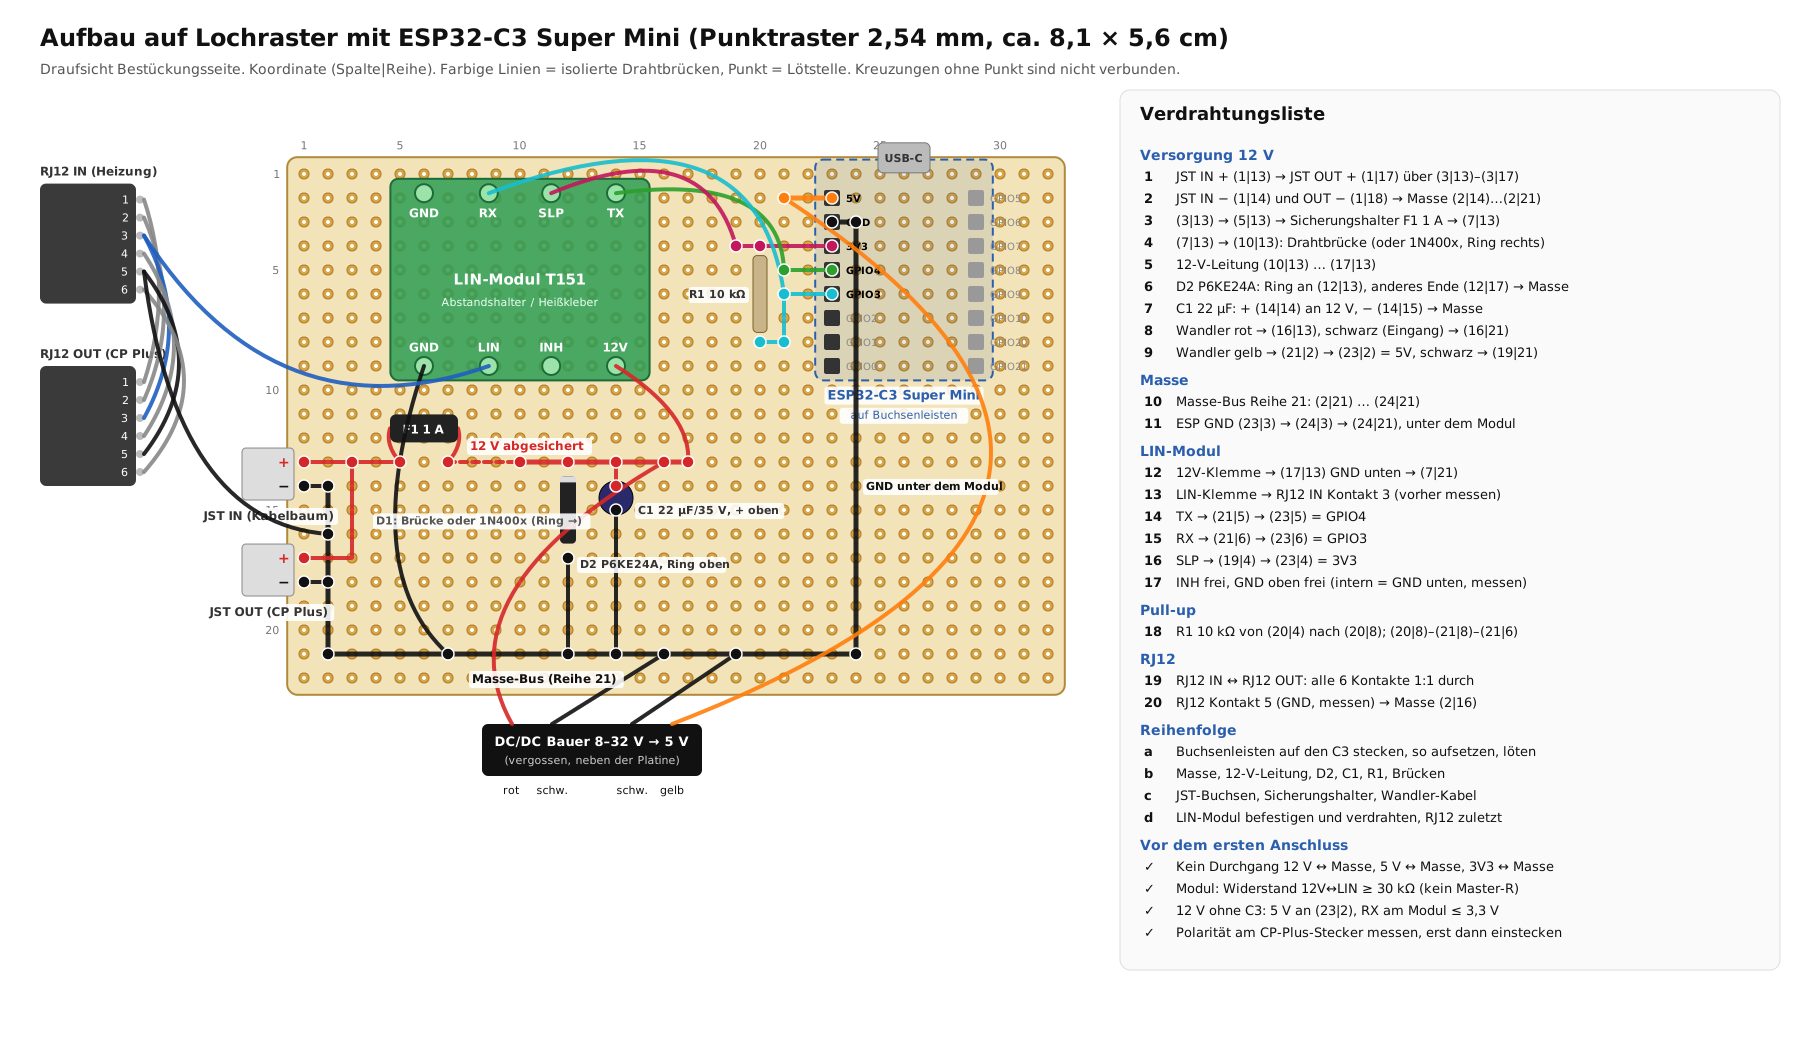
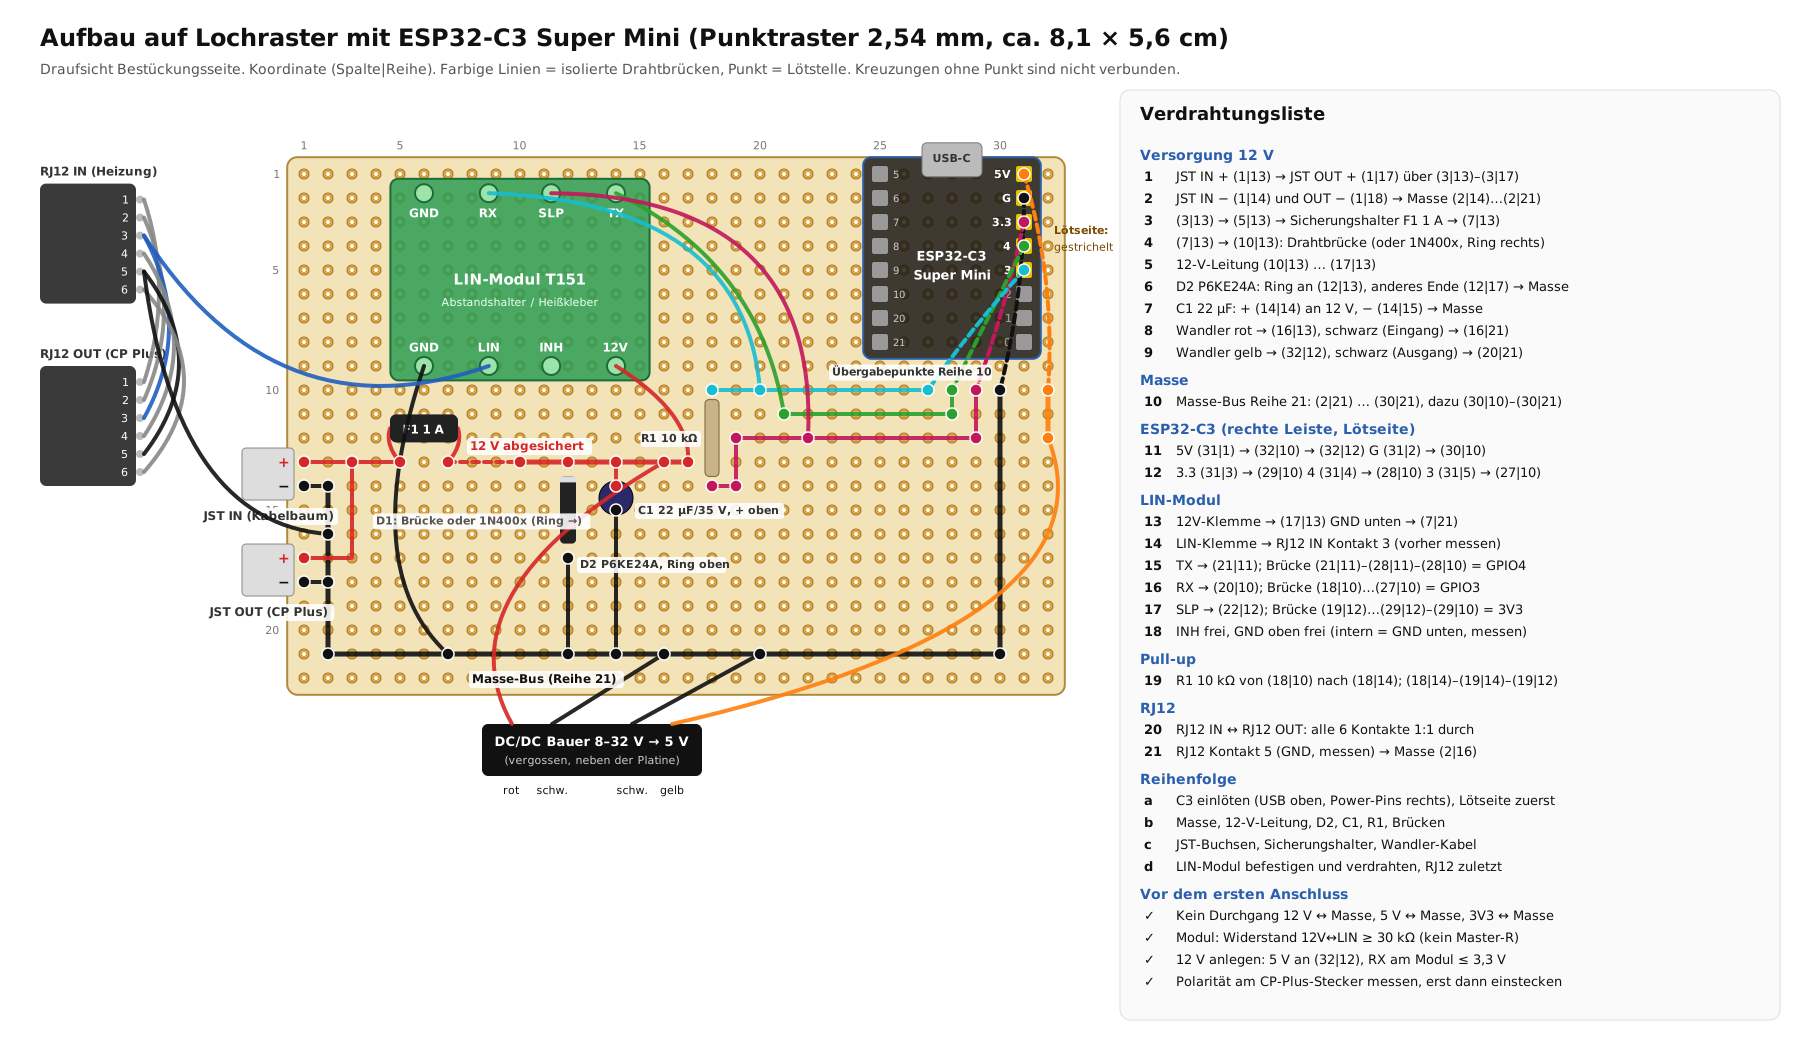
C3 Super Mini plan: power pins on the right in top view
The Super Mini has 5V/G/3.3/4/3/2/1/0 on the right header when seen from
the top with USB up. Layout mirrored accordingly, the five used pins are
wired on the solder side to transfer points below the module.

Claude-Session: https://claude.ai/code/session_01V8JBHwqyDuTDRa74HcRfnB

Changed region(s): [[0.6154, 0.3736, 0.8615, 0.934], [0.2769, 0.1245, 0.6154, 0.6849], [0.7077, 0.3113, 0.8308, 0.3425]]

diff --git a/docs/gen_layout_c3.py b/docs/gen_layout_c3.py
@@ -8,7 +8,7 @@ P = 24                 # pixel per 2.54 mm
 X0, Y0 = 280, 150      # origin: hole (0,0)
 COLS, ROWS = 32, 22
 W, H = 1820, 1060
-LIST_X, LIST_H = 1140, 880
+LIST_X, LIST_H = 1140, 930
 s = []
 a = s.append
 
@@ -81,27 +81,27 @@ for y in range(1, ROWS + 1):
     if y == 1 or y % 5 == 0:
         txt(hx(0.3) - 8, hy(y) + 4, str(y), 11, 'end', '#777')
 
-# ---------------- ESP32-C3 Super Mini (USB up) ----------------
-LX_, RX_, Y1 = 23, 29, 2
-left = ['5V', 'GND', '3V3', 'GPIO4', 'GPIO3', 'GPIO2', 'GPIO1', 'GPIO0']
-right = ['GPIO5', 'GPIO6', 'GPIO7', 'GPIO8', 'GPIO9', 'GPIO10', 'GPIO20', 'GPIO21']
-a(f'<rect x="{hx(LX_-0.7)}" y="{hy(Y1-1.6)}" width="{(RX_-LX_+1.4)*P}" height="{9.2*P}" rx="8" '
-  'fill="#2b5fae" fill-opacity="0.12" stroke="#2b5fae" stroke-width="2" stroke-dasharray="8,5"/>')
-a(f'<rect x="{(hx(LX_)+hx(RX_))/2-26}" y="{hy(Y1-2.3)}" width="52" height="30" rx="5" fill="#bbb" stroke="#777"/>')
-txt((hx(LX_) + hx(RX_)) / 2, hy(Y1 - 1.5), 'USB-C', 11, 'middle', '#333', True)
-tbg((hx(LX_) + hx(RX_)) / 2, hy(Y1 + 8.4), 'ESP32-C3 Super Mini', 13, 'middle', '#2b5fae', True)
-tbg((hx(LX_) + hx(RX_)) / 2, hy(Y1 + 9.2), 'auf Buchsenleisten', 11, 'middle', '#2b5fae', False)
+# ---------------- ESP32-C3 Super Mini (top view, USB up: power pins on the RIGHT) ----------------
+LX_, RX_, Y1 = 25, 31, 1
+left = ['GPIO5', 'GPIO6', 'GPIO7', 'GPIO8', 'GPIO9', 'GPIO10', 'GPIO20', 'GPIO21']
+right = ['5V', 'G', '3.3', '4', '3', '2', '1', '0']
+USED = ('5V', 'G', '3.3', '4', '3')
+a(f'<rect x="{hx(LX_-0.7)}" y="{hy(Y1-0.7)}" width="{(RX_-LX_+1.4)*P}" height="{8.4*P}" rx="8" '
+  'fill="#111" fill-opacity="0.80" stroke="#2b5fae" stroke-width="2"/>')
+a(f'<rect x="{(hx(LX_)+hx(RX_))/2-30}" y="{hy(Y1-1.3)}" width="60" height="34" rx="5" fill="#bbb" stroke="#777"/>')
+txt((hx(LX_) + hx(RX_)) / 2, hy(Y1 - 0.5), 'USB-C', 11, 'middle', '#333', True)
+txt((hx(LX_) + hx(RX_)) / 2, hy(Y1 + 3.6), 'ESP32-C3', 13, 'middle', '#fff', True)
+txt((hx(LX_) + hx(RX_)) / 2, hy(Y1 + 4.4), 'Super Mini', 13, 'middle', '#fff', True)
 for i in range(8):
-    for xx in (LX_, RX_):
-        a(f'<rect x="{hx(xx)-8}" y="{hy(Y1+i)-8}" width="16" height="16" fill="{"#333" if xx == LX_ else "#999"}" rx="2"/>')
-    txt(hx(RX_) + 14, hy(Y1 + i) + 4, right[i], 10, 'start', '#888')
-    txt(hx(LX_) + 14, hy(Y1 + i) + 4, left[i], 10, 'start',
-        '#000' if left[i] in ('5V', 'GND', '3V3', 'GPIO4', 'GPIO3') else '#888',
-        left[i] in ('5V', 'GND', '3V3', 'GPIO4', 'GPIO3'))
-
+    a(f'<rect x="{hx(LX_)-8}" y="{hy(Y1+i)-8}" width="16" height="16" fill="#999" rx="2"/>')
+    a(f'<rect x="{hx(RX_)-8}" y="{hy(Y1+i)-8}" width="16" height="16" fill="{"#e6c200" if right[i] in USED else "#999"}" rx="2"/>')
+    txt(hx(LX_) + 13, hy(Y1 + i) + 4, left[i].replace('GPIO', ''), 10, 'start', '#ccc')
+    txt(hx(RX_) - 13, hy(Y1 + i) + 4, right[i], 11, 'end', '#fff' if right[i] in USED else '#aaa', right[i] in USED)
+txt(hx(RX_) + 30, hy(Y1 + 2.5), 'Lötseite:', 11, 'start', '#7a4a00', True)
+txt(hx(RX_) + 30, hy(Y1 + 3.2), 'gestrichelt', 11, 'start', '#7a4a00')
 # ---------------- GND ----------------
-wire([(23, 3), (24, 3), (24, 21)], CG, 5)                # under the module between the headers
-wire([(2, 14), (2, 21), (24, 21)], CG, 5)                # GND bus row 21
+wire([(30, 10), (30, 21)], CG, 5)
+wire([(2, 14), (2, 21), (30, 21)], CG, 5)                # GND bus row 21
 # ---------------- JST 12 V pass-through ----------------
 for (yy, name) in ((13, 'JST IN (Kabelbaum)'), (17, 'JST OUT (CP Plus)')):
     a(f'<rect x="{hx(1)-62}" y="{hy(yy)-14}" width="52" height="{P+28}" rx="4" fill="#ddd" stroke="#888"/>')
@@ -131,12 +131,22 @@ txt(hx(14) - 2, hy(14) + 2, '+', 12, 'middle', '#fff', True)
 wire([(14, 15), (14, 21)], CG, 4)
 
 # ---------------- ESP side ----------------
-wire([(21, 2), (23, 2)], C5, 5)                          # 5V
-wire([(19, 4), (23, 4)], C33, 4)                         # 3V3 node
-wire([(21, 5), (23, 5)], CTX, 4)                         # TX node -> GPIO4
-wire([(21, 6), (23, 6)], CRX, 4)                         # RX node -> GPIO3
-a(f'<rect x="{hx(20)-7}" y="{hy(4.4)}" width="14" height="{3.2*P}" rx="4" fill="#c9b48a" stroke="#7a5f2a"/>')
-wire([(21, 6), (21, 8), (20, 8)], CRX, 4)                # RX node -> R1 bottom
+# solder side: right header pins -> transfer points in row 10 below the module
+def under(p0, p1, col, bend):
+    (x0, y0), (x1, y1) = (hx(p0[0]), hy(p0[1])), (hx(p1[0]), hy(p1[1]))
+    a(f'<path d="M{x0},{y0} Q{(x0+x1)/2+bend[0]},{(y0+y1)/2+bend[1]} {x1},{y1}" fill="none" stroke="{col}" '
+      'stroke-width="4" stroke-dasharray="8,5" stroke-linecap="round"/>')
+under((31, 1), (32, 10), C5, (20, 0))
+under((31, 2), (30, 10), CG, (12, 0))
+under((31, 3), (29, 10), C33, (6, 0))
+under((31, 4), (28, 10), CTX, (0, 0))
+under((31, 5), (27, 10), CRX, (-6, 0))
+wire([(32, 10), (32, 12)], C5, 5)                        # 5V: converter yellow lands at (32,12)
+wire([(27, 10), (18, 10)], CRX, 4)                       # RX (GPIO3)
+wire([(28, 10), (28, 11), (21, 11)], CTX, 4)             # TX (GPIO4)
+wire([(29, 10), (29, 12), (19, 12)], C33, 4)             # 3V3
+a(f'<rect x="{hx(18)-7}" y="{hy(10.4)}" width="14" height="{3.2*P}" rx="4" fill="#c9b48a" stroke="#7a5f2a"/>')
+wire([(18, 14), (19, 14), (19, 12)], C33, 4)             # R1 bottom -> 3V3
 
 # ---------------- LIN module ----------------
 mx0, my0, mx1, my1 = 4.6, 1.2, 15.4, 9.6
@@ -154,9 +164,9 @@ for n, x in bot.items():
     txt(hx(x), hy(my1 - 1.2), n, 12, 'middle', '#fff', True)
 tp = lambda n: (hx(top[n]), hy(my0 + 0.6))
 bp = lambda n: (hx(bot[n]), hy(my1 - 0.6))
-flying(tp('TX'), (hx(21), hy(5)), CTX, (80, -60))
-flying(tp('RX'), (hx(21), hy(6)), CRX, (120, -150))
-flying(tp('SLP'), (hx(19), hy(4)), C33, (60, -90))
+flying(tp('TX'), (hx(21), hy(11)), CTX, (60, -40))
+flying(tp('RX'), (hx(20), hy(10)), CRX, (120, -90))
+flying(tp('SLP'), (hx(22), hy(12)), C33, (140, -120))
 flying(bp('12V'), (hx(17), hy(13)), C12, (40, 0))
 flying(bp('GND'), (hx(7), hy(21)), CG, (-80, 60))
 
@@ -182,8 +192,8 @@ txt(cx, cy - 4, 'DC/DC Bauer 8–32 V → 5 V', 13, 'middle', '#fff', True)
 txt(cx, cy + 14, '(vergossen, neben der Platine)', 11, 'middle', '#ccc')
 flying((cx - 80, cy - 26), (hx(16), hy(13)), C12, (-150, 0))
 flying((cx - 40, cy - 26), (hx(16), hy(21)), CG)
-flying((cx + 40, cy - 26), (hx(19), hy(21)), CG)
-flying((cx + 80, cy - 26), (hx(21), hy(2)), C5, (520, 40))
+flying((cx + 40, cy - 26), (hx(20), hy(21)), CG)
+flying((cx + 80, cy - 26), (hx(32), hy(12)), C5, (260, 40))
 txt(cx - 80, cy + 44, 'rot', 11, 'middle'); txt(cx - 40, cy + 44, 'schw.', 11, 'middle')
 txt(cx + 40, cy + 44, 'schw.', 11, 'middle'); txt(cx + 80, cy + 44, 'gelb', 11, 'middle')
 
@@ -191,18 +201,20 @@ txt(cx + 40, cy + 44, 'schw.', 11, 'middle'); txt(cx + 80, cy + 44, 'gelb', 11, 
 for x, y, c in [(1, 13, C12), (1, 14, CG), (1, 17, C12), (1, 18, CG), (3, 13, C12), (5, 13, C12), (7, 13, C12),
                 (10, 13, C12), (12, 13, C12), (14, 13, C12), (16, 13, C12), (17, 13, C12),
                 (12, 17, CG), (14, 14, C12), (14, 15, CG), (2, 14, CG), (2, 16, CG), (2, 18, CG), (2, 21, CG),
-                (7, 21, CG), (12, 21, CG), (14, 21, CG), (16, 21, CG), (19, 21, CG), (24, 21, CG),
-                (23, 3, CG), (24, 3, CG), (21, 2, C5), (23, 2, C5), (19, 4, C33), (20, 4, C33), (23, 4, C33),
-                (21, 5, CTX), (23, 5, CTX), (21, 6, CRX), (23, 6, CRX), (21, 8, CRX), (20, 8, CRX)]:
+                (7, 21, CG), (12, 21, CG), (14, 21, CG), (16, 21, CG), (20, 21, CG), (30, 21, CG),
+                (31, 1, C5), (31, 2, CG), (31, 3, C33), (31, 4, CTX), (31, 5, CRX),
+                (32, 10, C5), (32, 12, C5), (30, 10, CG), (29, 10, C33), (28, 10, CTX), (27, 10, CRX),
+                (18, 10, CRX), (20, 10, CRX), (21, 11, CTX), (28, 11, CTX), (29, 12, C33), (19, 12, C33),
+                (22, 12, C33), (18, 14, C33), (19, 14, C33)]:
     solder(x, y, c)
 
 label_hole(10, 13, '12 V abgesichert', -50, -12, C12, 12)
 label_hole(4, 15.6, 'D1: Brücke oder 1N400x (Ring →)', 0, 0, '#555', 11)
 label_hole(12, 17, 'D2 P6KE24A, Ring oben', 12, 10, '#333', 11)
 label_hole(14, 15, 'C1 22 µF/35 V, + oben', 22, 4, '#333', 11)
-label_hole(20, 6, 'R1 10 kΩ', -14, 4, '#333', 11, 'end')
+label_hole(18, 12, 'R1 10 kΩ', -14, 4, '#333', 11, 'end')
 label_hole(8, 22, 'Masse-Bus (Reihe 21)', 0, 5, CG, 12)
-label_hole(24, 14, 'GND unter dem Modul', 10, 4, CG, 11)
+label_hole(23, 9.4, 'Übergabepunkte Reihe 10', 0, 0, '#333', 11)
 
 # ---------------- connection list ----------------
 LX, LY = LIST_X, 120
@@ -218,31 +230,33 @@ rows = [
     ('6', 'D2 P6KE24A: Ring an (12|13), anderes Ende (12|17) → Masse'),
     ('7', 'C1 22 µF: + (14|14) an 12 V, − (14|15) → Masse'),
     ('8', 'Wandler rot → (16|13), schwarz (Eingang) → (16|21)'),
-    ('9', 'Wandler gelb → (21|2) → (23|2) = 5V, schwarz → (19|21)'),
+    ('9', 'Wandler gelb → (32|12), schwarz (Ausgang) → (20|21)'),
     ('Masse', None),
-    ('10', 'Masse-Bus Reihe 21: (2|21) … (24|21)'),
-    ('11', 'ESP GND (23|3) → (24|3) → (24|21), unter dem Modul'),
+    ('10', 'Masse-Bus Reihe 21: (2|21) … (30|21), dazu (30|10)–(30|21)'),
+    ('ESP32-C3 (rechte Leiste, Lötseite)', None),
+    ('11', '5V (31|1) → (32|10) → (32|12)     G (31|2) → (30|10)'),
+    ('12', '3.3 (31|3) → (29|10)   4 (31|4) → (28|10)   3 (31|5) → (27|10)'),
     ('LIN-Modul', None),
-    ('12', '12V-Klemme → (17|13)    GND unten → (7|21)'),
-    ('13', 'LIN-Klemme → RJ12 IN Kontakt 3 (vorher messen)'),
-    ('14', 'TX → (21|5) → (23|5) = GPIO4'),
-    ('15', 'RX → (21|6) → (23|6) = GPIO3'),
-    ('16', 'SLP → (19|4) → (23|4) = 3V3'),
-    ('17', 'INH frei, GND oben frei (intern = GND unten, messen)'),
+    ('13', '12V-Klemme → (17|13)    GND unten → (7|21)'),
+    ('14', 'LIN-Klemme → RJ12 IN Kontakt 3 (vorher messen)'),
+    ('15', 'TX → (21|11); Brücke (21|11)–(28|11)–(28|10) = GPIO4'),
+    ('16', 'RX → (20|10); Brücke (18|10)…(27|10) = GPIO3'),
+    ('17', 'SLP → (22|12); Brücke (19|12)…(29|12)–(29|10) = 3V3'),
+    ('18', 'INH frei, GND oben frei (intern = GND unten, messen)'),
     ('Pull-up', None),
-    ('18', 'R1 10 kΩ von (20|4) nach (20|8); (20|8)–(21|8)–(21|6)'),
+    ('19', 'R1 10 kΩ von (18|10) nach (18|14); (18|14)–(19|14)–(19|12)'),
     ('RJ12', None),
-    ('19', 'RJ12 IN ↔ RJ12 OUT: alle 6 Kontakte 1:1 durch'),
-    ('20', 'RJ12 Kontakt 5 (GND, messen) → Masse (2|16)'),
+    ('20', 'RJ12 IN ↔ RJ12 OUT: alle 6 Kontakte 1:1 durch'),
+    ('21', 'RJ12 Kontakt 5 (GND, messen) → Masse (2|16)'),
     ('Reihenfolge', None),
-    ('a', 'Buchsenleisten auf den C3 stecken, so aufsetzen, löten'),
+    ('a', 'C3 einlöten (USB oben, Power-Pins rechts), Lötseite zuerst'),
     ('b', 'Masse, 12-V-Leitung, D2, C1, R1, Brücken'),
     ('c', 'JST-Buchsen, Sicherungshalter, Wandler-Kabel'),
     ('d', 'LIN-Modul befestigen und verdrahten, RJ12 zuletzt'),
     ('Vor dem ersten Anschluss', None),
     ('✓', 'Kein Durchgang 12 V ↔ Masse, 5 V ↔ Masse, 3V3 ↔ Masse'),
     ('✓', 'Modul: Widerstand 12V↔LIN ≥ 30 kΩ (kein Master-R)'),
-    ('✓', '12 V ohne C3: 5 V an (23|2), RX am Modul ≤ 3,3 V'),
+    ('✓', '12 V anlegen: 5 V an (32|12), RX am Modul ≤ 3,3 V'),
     ('✓', 'Polarität am CP-Plus-Stecker messen, erst dann einstecken'),
 ]
 y = LY + 34

diff --git a/docs/gen_schematic_c3.py b/docs/gen_schematic_c3.py
@@ -111,9 +111,9 @@ line([(1180, 225), (1195, 225), (1195, 232)], CG, 3); gnd(1195, 232)
 txt(1222, 200, '5 V', 14, col=C5, bold=True)
 
 # ---------------- ESP32 ----------------
-box(1230, 230, 230, 330, 'ESP32-C3 Super Mini', '#eef4ff', CL, 'linke Stiftleiste (USB oben)')
-pins = [('3V3', 'Pin 3', 270), ('GPIO4 (TX)', 'Pin 4', 350), ('GPIO3 (RX)', 'Pin 5', 390),
-        ('5V', 'Pin 1', 470), ('GND', 'Pin 2', 520)]
+box(1230, 230, 230, 330, 'ESP32-C3 Super Mini', '#eef4ff', CL, 'rechte Stiftleiste (Draufsicht, USB oben)')
+pins = [('3V3', '„3.3“', 270), ('GPIO4 (TX)', '„4“', 350), ('GPIO3 (RX)', '„3“', 390),
+        ('5V', '„5V“', 470), ('GND', '„G“', 520)]
 for name, pin, y in pins:
     txt(1245, y + 5, name, 14)
     txt(1450, y + 5, pin, 12, 'end', '#666')

diff --git a/HARDWARE.md b/HARDWARE.md
@@ -145,7 +145,7 @@ Kleinere Variante desselben Aufbaus: LIN-Modul T151, vergossener DC/DC-Wandler 8
 - [Schaltplan](docs/schaltplan_c3.png)
 - [Lochraster-Plan mit Verdrahtungsliste](docs/lochraster_c3.png)
 
-Alle benutzten Pins liegen auf der Stiftleiste neben 5V/GND/3V3: **TX = GPIO4, RX = GPIO3**. GPIO20/21 werden absichtlich nicht benutzt, weil der ESP32-C3 beim Start sein Boot-Log auf GPIO21 ausgibt. Das würde bei jedem Neustart auf dem LIN-Bus landen. Die blaue Onboard-LED (GPIO8) zeigt den LIN-Status.
+Alle benutzten Pins liegen auf einer Stiftleiste: in der Draufsicht mit USB oben die **rechte** Leiste mit 5V, G, 3.3, 4, 3, 2, 1, 0. **TX = GPIO4, RX = GPIO3**. Im Lochraster-Plan laufen diese fünf Leitungen auf der Lötseite zu Übergabepunkten unterhalb des Moduls. GPIO20/21 werden absichtlich nicht benutzt, weil der ESP32-C3 beim Start sein Boot-Log auf GPIO21 ausgibt. Das würde bei jedem Neustart auf dem LIN-Bus landen. Die blaue Onboard-LED (GPIO8) zeigt den LIN-Status.
 
 **Firmware:** In `config.h` `BOARD_ESP32C3_SUPERMINI` aktivieren. Das Profil setzt außerdem die WLAN-Sendeleistung auf 8,5 dBm, weil viele Super-Mini-Boards mit voller Leistung keine stabile Verbindung bekommen.
 
@@ -155,7 +155,6 @@ Alle benutzten Pins liegen auf der Stiftleiste neben 5V/GND/3V3: **TX = GPIO4, R
 - Flash Size: **4MB**
 - Partition Scheme: **Minimal SPIFFS (1.9MB APP with OTA/128KB SPIFFS)**
 
-Den Abstand der beiden Stiftleisten nicht abzählen: Buchsenleisten auf den C3 stecken, so auf die Platine setzen und dann löten.
 
 ## USB am Fahrzeug
 
